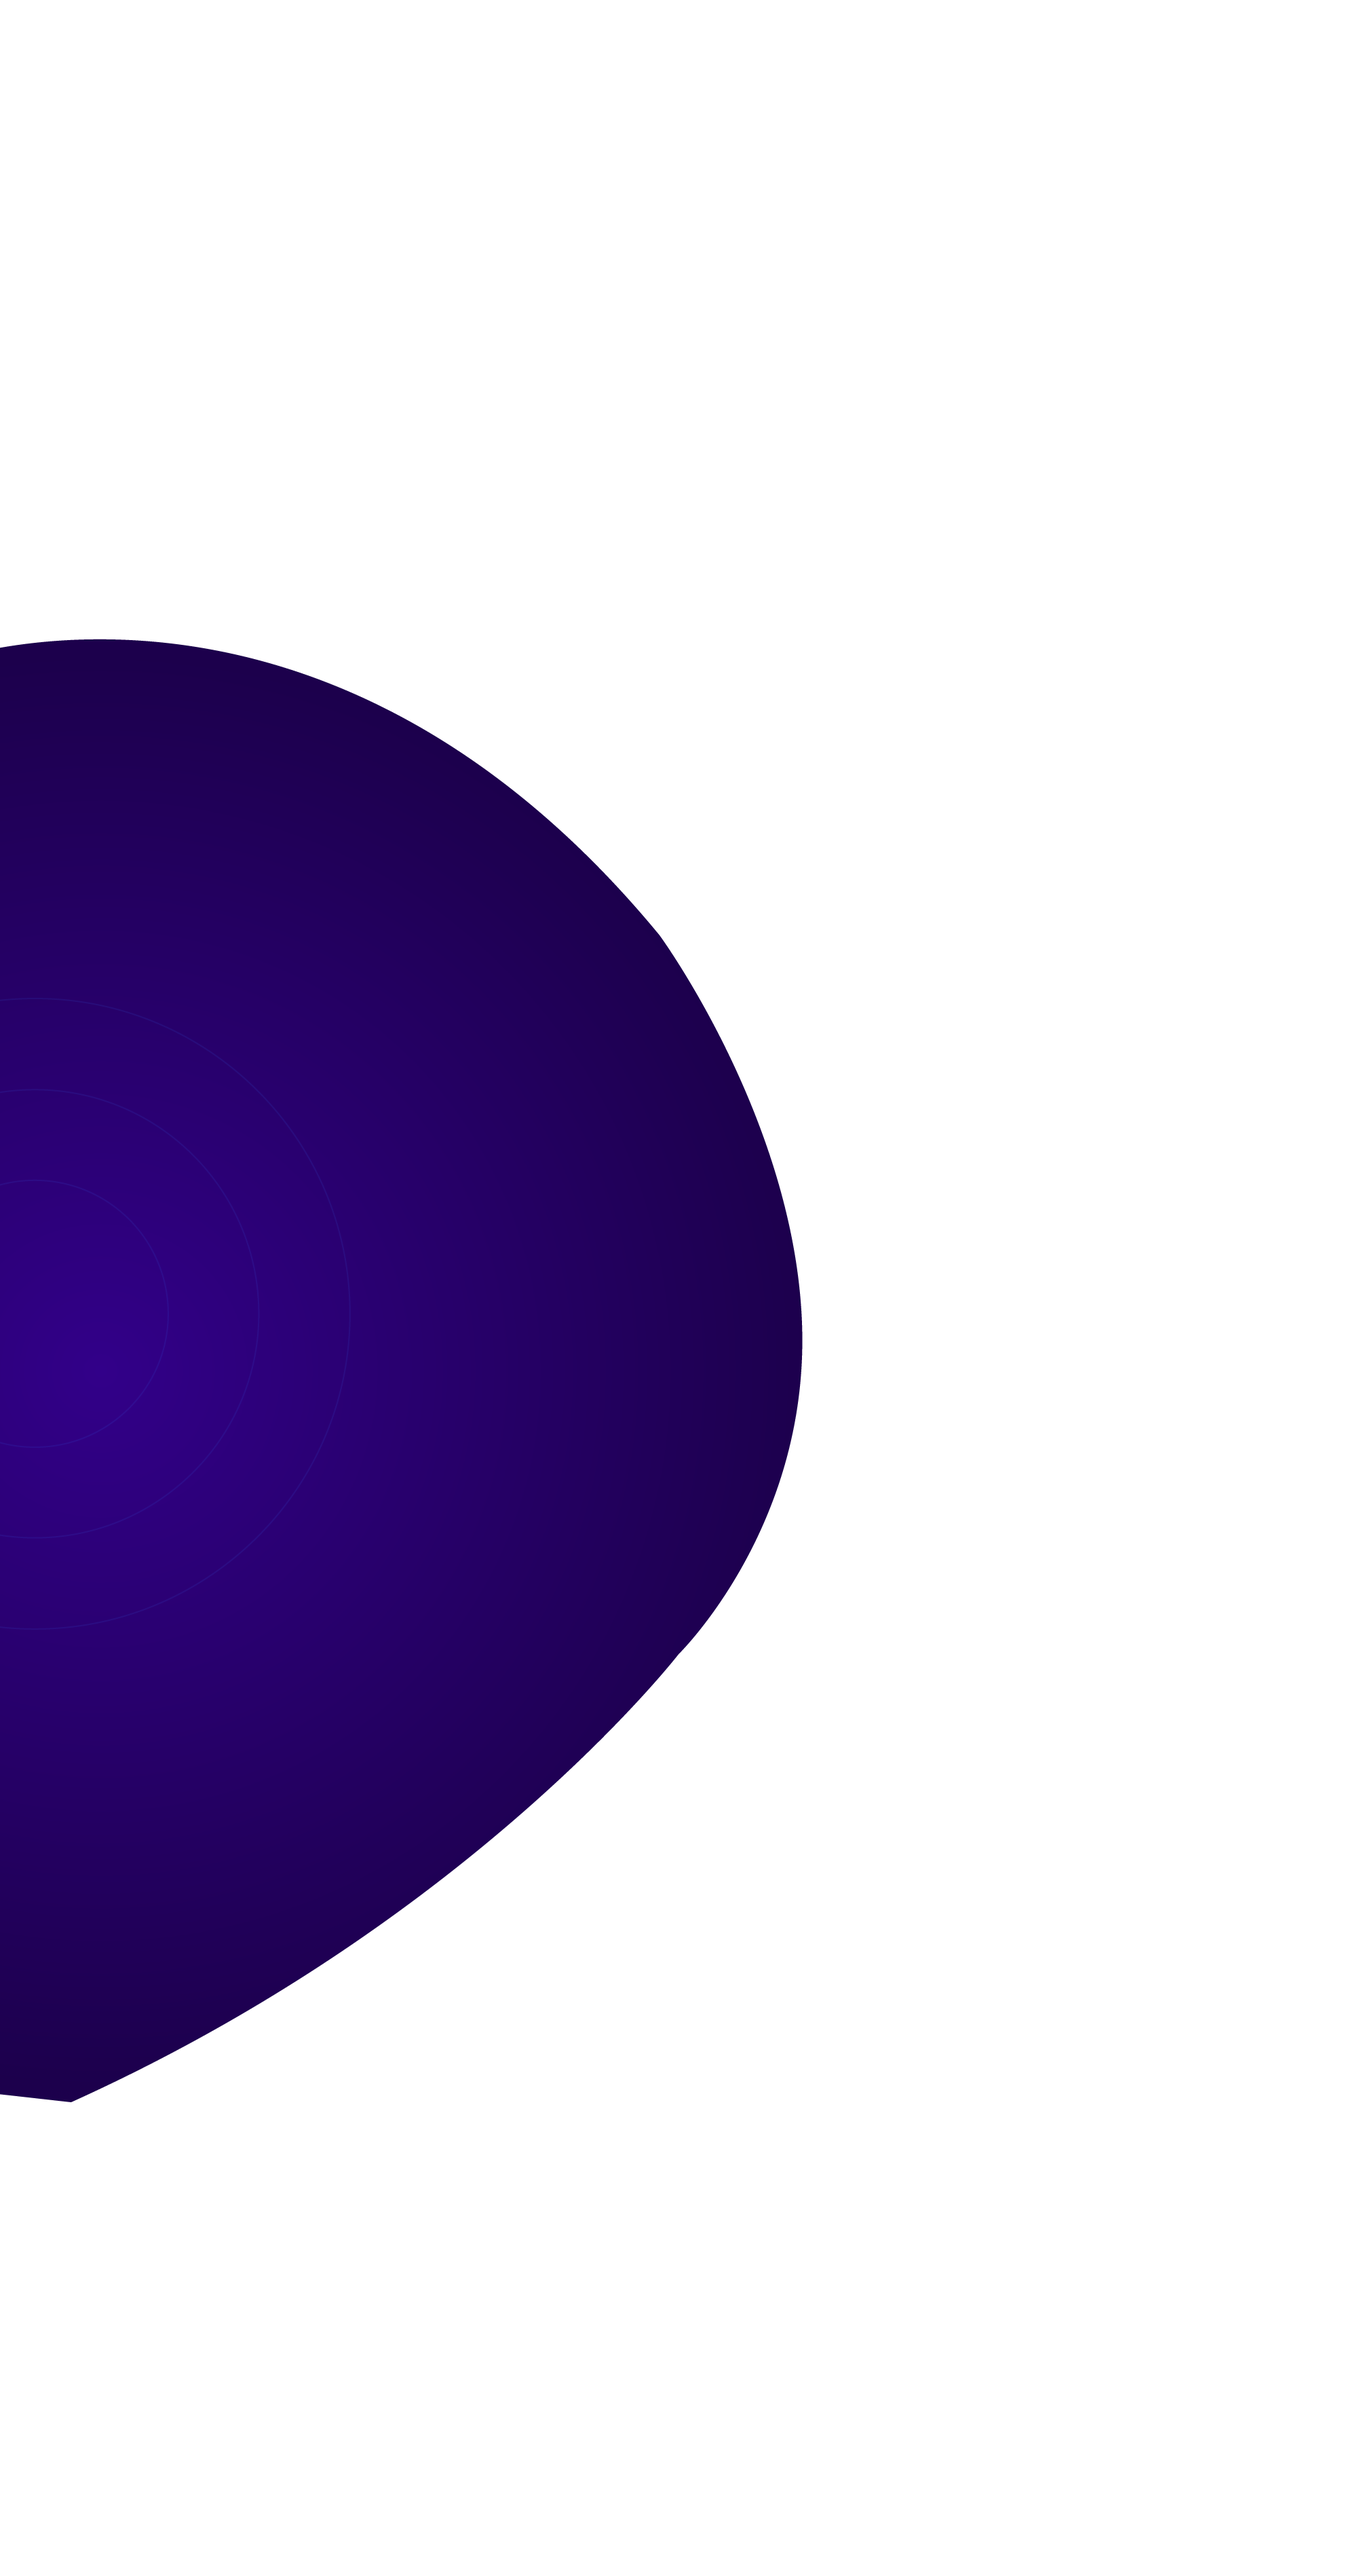
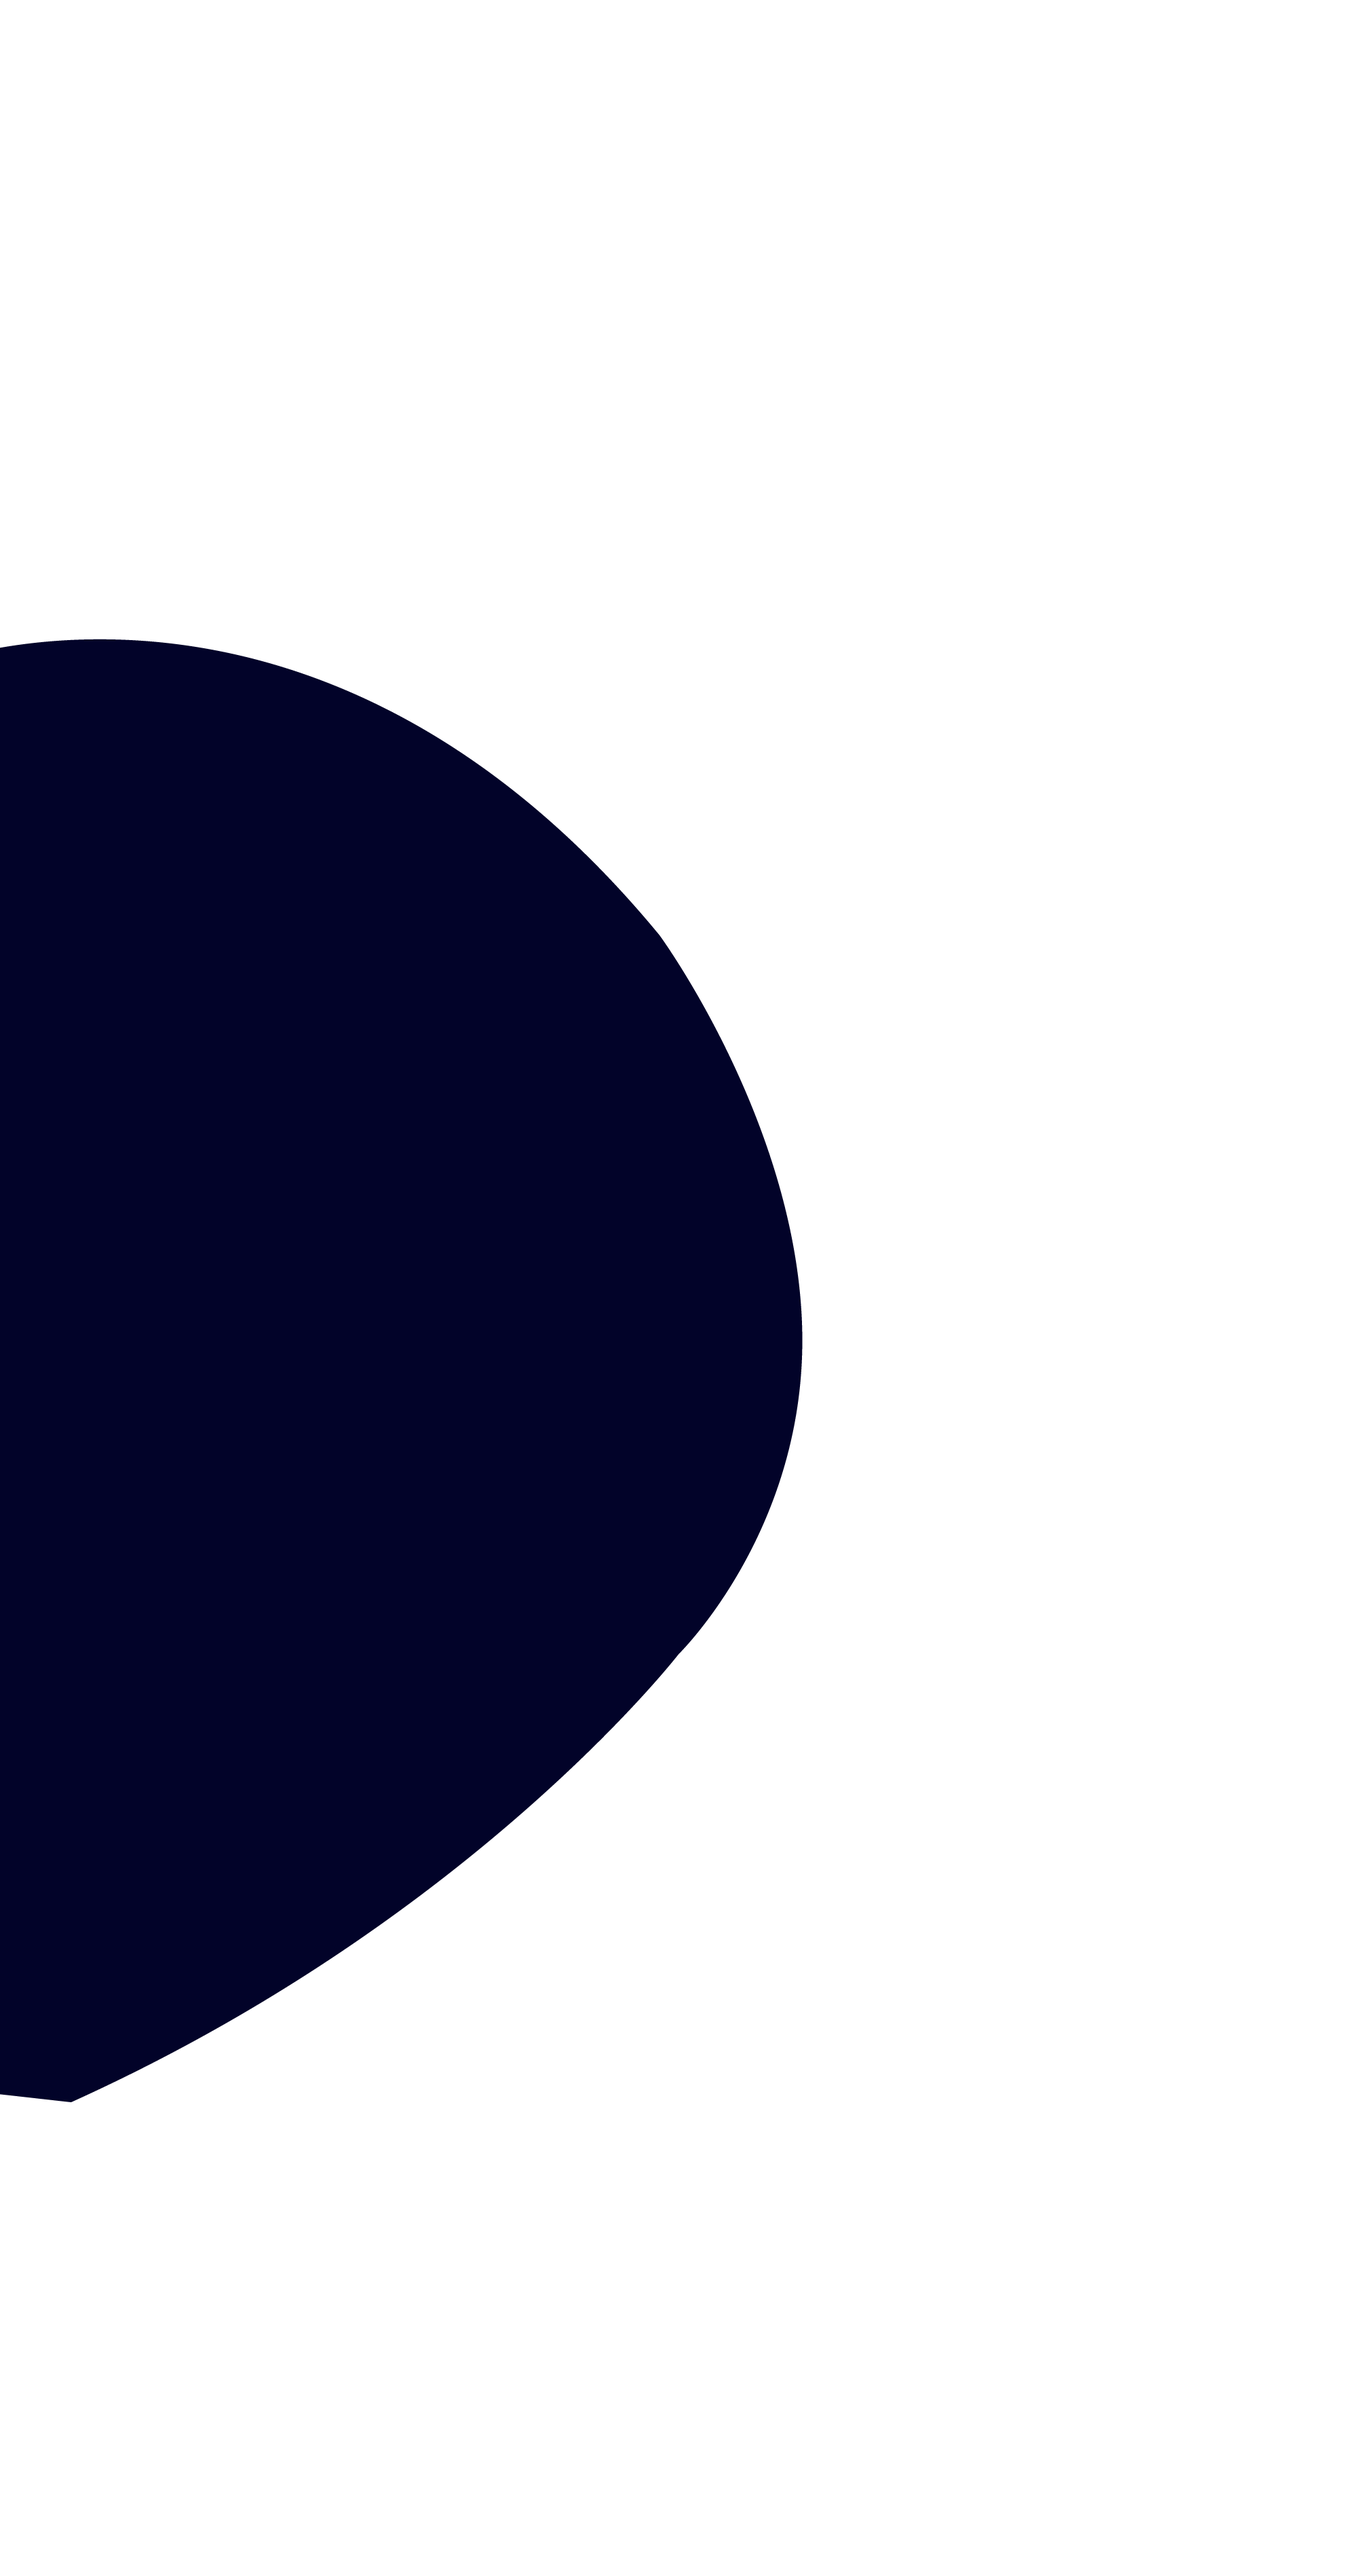
Ajuste imagens de fundo

Changed region(s): [[0.0, 0.2487, 0.589, 0.8395]]

diff --git a/src/scss/layout/_layout.scss b/src/scss/layout/_layout.scss
@@ -697,7 +697,7 @@ body {
 ========================================================================== */
 
 .roadmap-wrapper {
-    background: url(../img/bg/bg-token-top.png) no-repeat top center, url(../img/bg/bg-token-left.png) no-repeat top left, url(../img/bg/bg-token-bottom.png) no-repeat bottom right, #1c004c;
+    background: url(../img/bg/bg-token-top.png) no-repeat top center, url(../img/bg/bg-token-left.png) no-repeat top left, url(../img/bg/bg-token-bottom.png) no-repeat bottom right, #020329;
 }
 
 .roadmap-wrapper {
@@ -968,7 +968,7 @@ body {
 ========================================================================== */
 
 .media-wrapper {
-    background: url(../img/bg/gradient-left-darker.png) no-repeat top left, url(../img/bg/gradient-right-darker.png) no-repeat top right, #1c004c;
+    background: url(../img/bg/gradient-left-darker.png) no-repeat top left, url(../img/bg/gradient-right-darker.png) no-repeat top right, #020329;
 }
 
 .media-wrapper {
@@ -1110,7 +1110,7 @@ body {
             min-height: 40px;
             display: flex;
             align-items: center;
-            background: #1c004c;
+            background: #020329;
             color: $white;
             border-top: 1px solid lighten(#020329, 5%);
             position: absolute;
@@ -1144,7 +1144,7 @@ body {
         input:checked + label {
             order: 1;
             z-index: 2;
-            background: #1c004c;
+            background: #020329;
             border-top: none;
             position: relative;
         }

diff --git a/src/scss/abstracts/_theme-default.scss b/src/scss/abstracts/_theme-default.scss
@@ -20,7 +20,7 @@ TABLE OF CONTENTS
 $fullhd-enabled: false;
 
 $primary: #9832ed;
-$primary-accent: #020228;
+$primary-accent: #47097a;
 $secondary: #ffffff;
 $secondary-accent: #9832ed;
 
